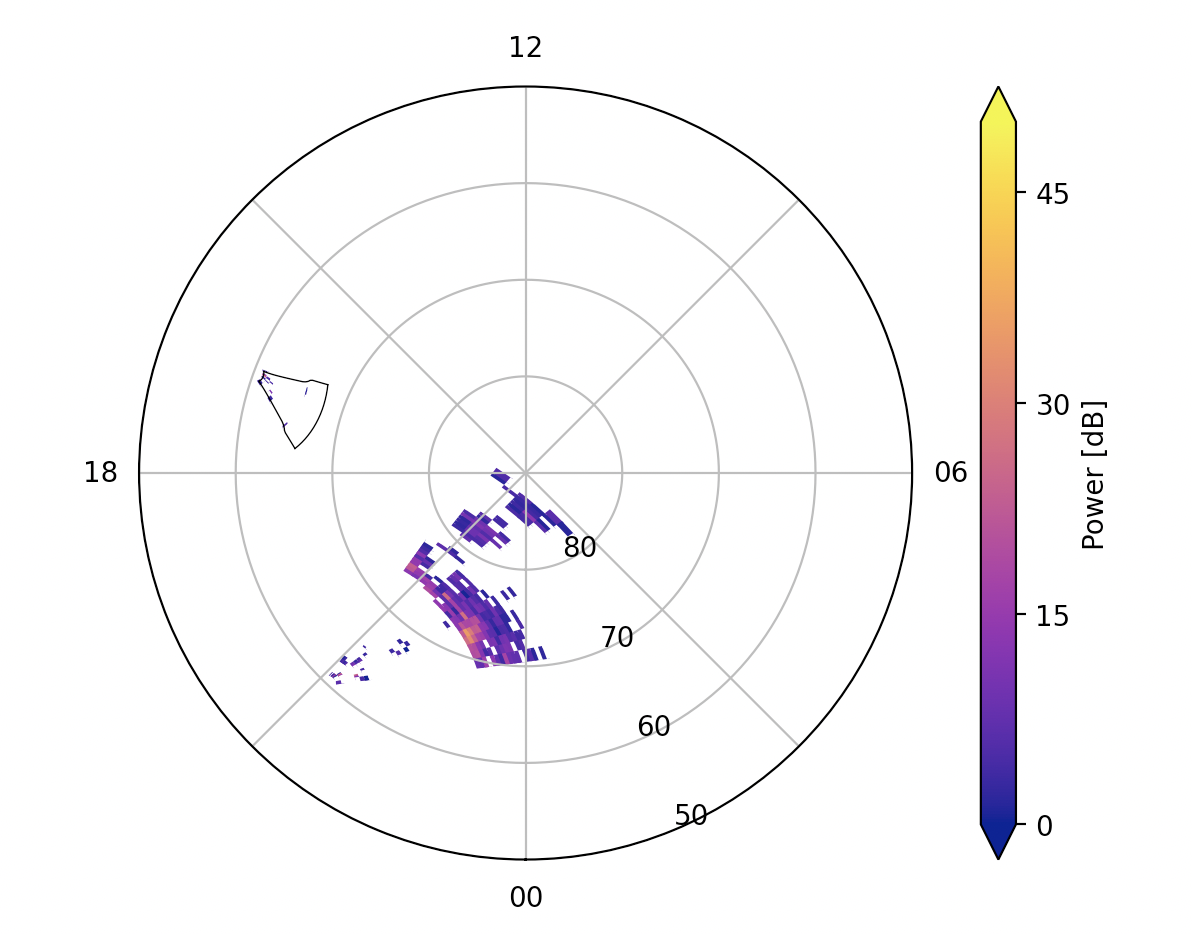
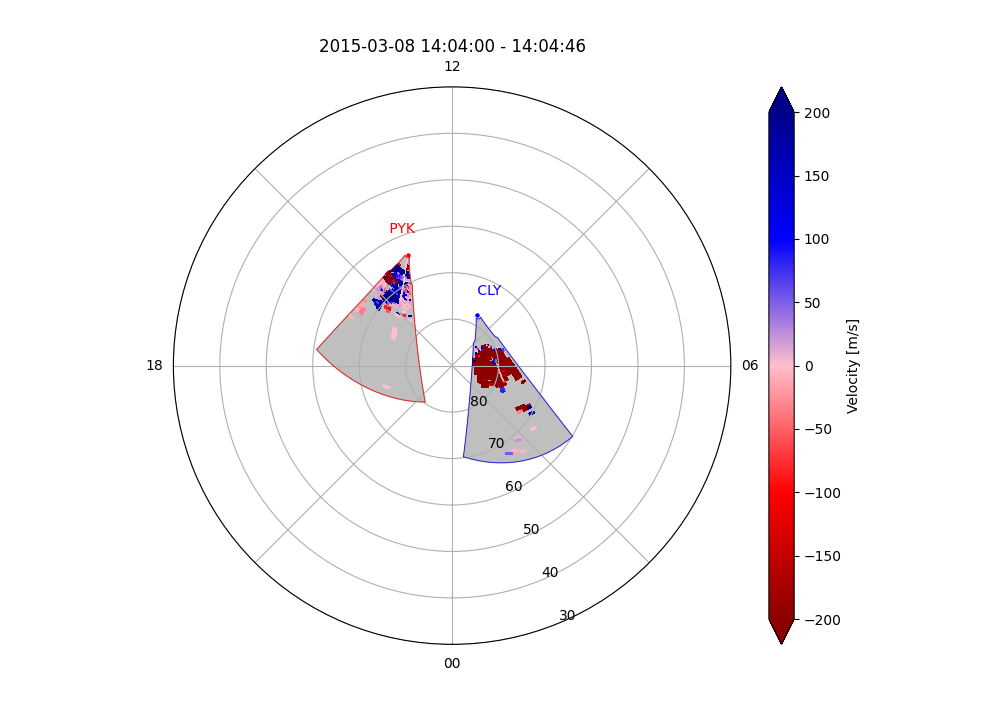
finished updating

diff --git a/docs/user/fan.md b/docs/user/fan.md
@@ -106,17 +106,29 @@ Here is a list of all the current options than can be used with `plot_fan`
 | Kwargs **                     | Axis Polar settings. See [polar axis](axis.py)                                                          |
 
 
+`plot_fan` can concatenate with other plots including itself, here is an example of plotting two different radars with some of the above parameters:
 
-
-
-As an example, the following code plots two fan plots, from the same radar at two different scans. The first one has been limited to only the first 20 ranges, and the second has no FOV boundary. Make sure you disable the colorbar on subsequent plots, or it will plot two. If you want to try this example for yourself, I used data from Saskatoon on 20200507 all day FITACF 3.0 file:
 ```python
-lats,lons,data,grndsct = pydarn.Fan.plot_fan(fitacf_data, scan_index=1, parameter='p_l', 
-	colorbar_label='Power [dB]', ranges=[0,20])
-	
-lats2,lons2,data2,grndsct2 = pydarn.Fan.plot_fan(fitacf_data, scan_index=140, parameter='p_l', 
-	colorbar=False, boundary=False)
+import pydarn
+from datetime import datetime
+import matplotlib.pyplot as plt 
 
+cly_file = 'data/20150308.1400.03.cly.fitacf'
+pyk_file = 'data/20150308.1401.00.pyk.fitacf'
+
+pyk_data = pydarn.SuperDARNRead().read_dmap(pyk_file)
+cly_data = pydarn.SuperDARNRead().read_dmap(cly_file)
+
+pydarn.Fan.plot_fan(cly_data, scan_index=datetime(2015, 3, 8, 14, 4),
+                    colorbar=False, fov_color='grey', line_color='blue',
+                    radar_label=True)
+
+pydarn.Fan.plot_fan(pyk_data, scan_index=datetime(2015, 3, 8, 14, 4), 
+                    colorbar_label='Velocity [m/s]', fov_color='grey',
+                    line_color='red', radar_label=True)
+
+#pydarn.Fan.plot_fov(66, datetime(2015, 3, 8, 15, 0), radar_label=True)
 plt.show()
 ```
+
 ![](../imgs/fan_3.png)
